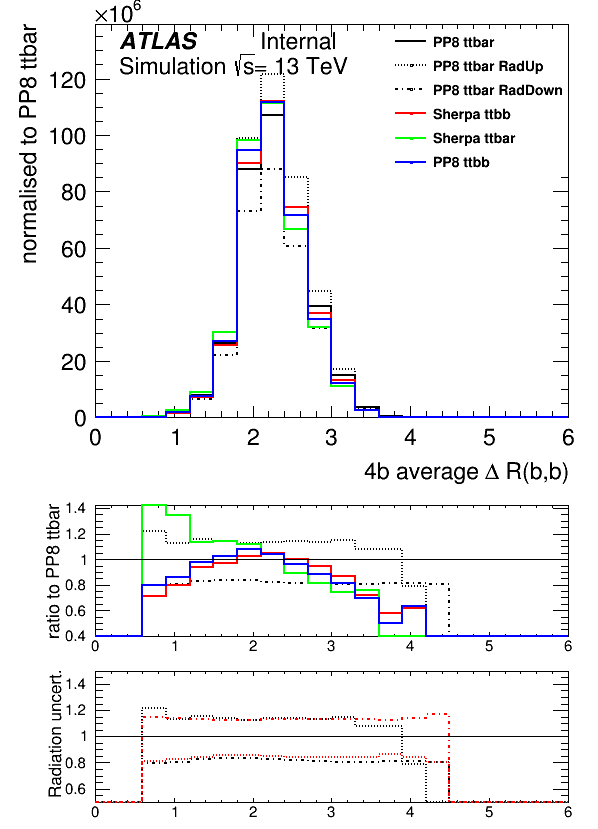
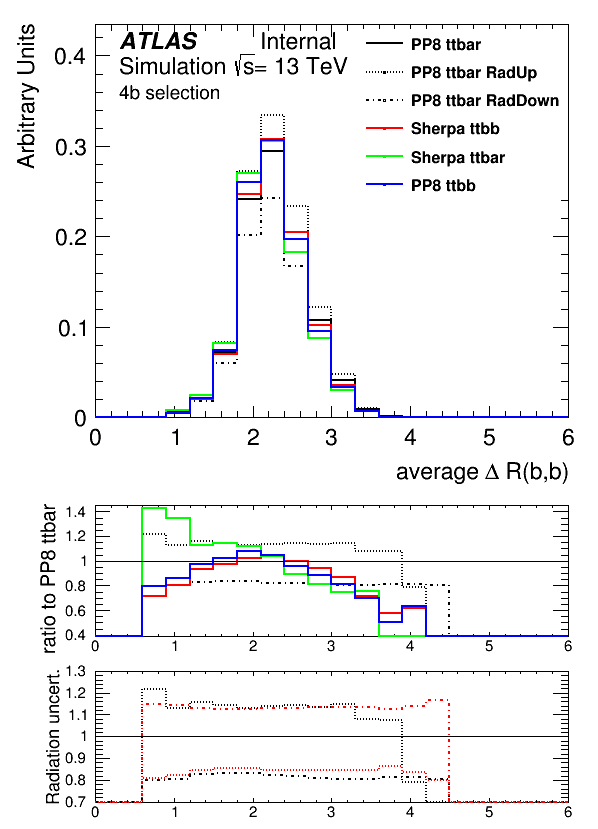
Postcirc comments pg

diff --git a/Tex/ttbb.tex b/Tex/ttbb.tex
@@ -3,19 +3,19 @@
 
 \subsection{Samples}
 Four Monte Carlo (MC) generators are compared in this study. % , where the inclusive $\mathrm{t\bar{t}}$ PP8 sample was previously used as the nominal background estimate in the ttH analysis. 
-The nominal sample for the inclusive $\mathrm{t\bar{t}}$ process is generated with the \textsc{POWHEG-BOX v2} NLO event generator~\cite{Nason:2004rx,Frixione:2007vw,Alioli:2010xd,Campbell:2014kua} with NNPDF3.0 NLO PDF set, matched to Pythia8 and is referred to as PP8 $\mathrm{t\bar{t}}$, where the additional bb-pair is described by the parton shower. The $h_{damp}$ parameter was set to 1.5 times the top quark mass~\cite{ATL-PHYS-PUB-2016-020}, which is assumed to be 172.5 GeV. The parton shower and the hadronisation were modelled by Pythia 8.210 with the A14 set of tuned parameters. The renormalisation and factorisation scales were set to the transverse mass of the top quark, defined as $m_{T,t} = \sqrt{m^2_t + p^2_{T,t}}$, where $p_{T,t}$ is the transverse momentum of the top quark in the $t\overline{t}$ center-of-mass reference frame.
-The intrinsic uncertainty of the nominal PP8 $\mathrm{t\bar{t}}$ sample is expressed by the simultaneous variation of the renormalisation and factorisation scales together with the PDF tune parameters. The RadiationUp variation has the renormalisation and factorisation scales decreased by a factor of two, the Var3c upward variation of the A14 parameter set and the $h_{damp}$ parameter doubled. The RadiationDown variation has the renormalisation and factorisation scales increased by a factor of two, the Var3c downward variation and the nominal value of $h_{damp}$.
+One sample is generated with the \textsc{POWHEG-BOX v2} NLO event generator~\cite{Nason:2004rx,Frixione:2007vw,Alioli:2010xd,Campbell:2014kua} with NNPDF3.0 NLO PDF set, matched to Pythia8 and is referred to as PP8 $\mathrm{t\bar{t}}$, where the additional bb-pair is described by the parton shower. The $h_{damp}$ parameter was set to 1.5 times the top quark mass~\cite{ATL-PHYS-PUB-2016-020}, which is assumed to be 172.5~GeV. The parton shower and the hadronisation were modelled by Pythia 8.210~\cite{PhysRevD.78.014026} with the A14 set of tuned parameters~\cite{ATL-PHYS-PUB-2014-021}. The renormalisation and factorisation scales were set to the transverse mass of the top quark, defined as $m_{T,t} = \sqrt{m^2_t + p^2_{T,t}}$, where $p_{T,t}$ is the transverse momentum of the top quark in the $t\overline{t}$ center-of-mass reference frame. This sample was previously used as the nominal background estimate in the ttH(bb) analysis.
+The intrinsic uncertainty of the nominal PP8 $\mathrm{t\bar{t}}$ sample is expressed by the simultaneous variation of the renormalisation and factorisation scales ($\mu_R$ and $\mu_F$) together with the corresponding A14 Eigentune variation parameters. The RadiationUp variation has the renormalisation and factorisation scales decreased by a factor of two, the Var3c upward variation of the A14 parameter set and the $h_{damp}$ parameter doubled. The RadiationDown variation has the renormalisation and factorisation scales increased by a factor of two, the Var3c downward variation and the nominal value of $h_{damp}$.
 Additionally, the up and down radiation uncertainty is calculated following the CMS approach, under which the renormalisation scale, factorisation scale and PDF tune variations are each taken individually and their difference to the nominal is summed in quadrature, without changing $h_{damp}$.
 
-The PP8 tt+bb sample also uses the POWHEG generator where $t\bar{t}b\bar{b}$ matrix elements are calculated at NLO with massive b-quarks, using the four-flavour NLO NNPDF3.0 PDF set~\cite{Jezo:2018yaf}. The parton shower and hadronisation is modelled by Pythia 8.240.
+The PP8 $\mathrm{t\bar{t}b\bar{b}}$ sample also uses the POWHEG generator where $t\bar{t}+b\bar{b}$ matrix elements are calculated at NLO with massive b-quarks, using the four-flavour NLO NNPDF3.0 PDF set~\cite{Jezo:2018yaf}. The parton shower and hadronisation is modelled by Pythia 8.240. The scales are set to $\mu_R=\sqrt[4]{m_{T,t}\times m_{T,\bar{t}}\times m_{T,b}\times m_{T,\bar{b}} }$, $\mu_F=0.5\times(m_{T,t}+m_{T,\bar{t}}+m_{T,b}+ m_{T,\bar{b}}+m_{T,gluon})$ and $h_{damp}=H_T/2$.
 
-For the PP8 samples the bottom and charm quark decays are described by EVTGEN v1.2~\cite{LANGE2001152} and the top quark spin correlations follow ref.~\cite{Frixione:2007zp}.
+For the PP8 samples the bottom and charm quark decays are described by \textsc{EVTGEN} v1.2~\cite{LANGE2001152} and the top quark spin correlations follow ref.~\cite{Frixione:2007zp}.
 
-The \textsc{Sherpa} tt+bb sample describes NLO tt+bb including parton showering and hadronisation by \textsc{Sherpa}-\textsc{Openloops}~\cite{Cascioli:2013era,Gleisberg:2008ta,Cascioli:2011va}. The sample was produced with Sherpa version 2.1.1 and the CT10 four-flavour scheme PDF set~\cite{Guzzi:2011sv,Gao:2013xoa} The renormalisation scale is set to the CMMPS value as in ref.~\cite{Cascioli:2013era}, the factorisation and resummation scales equal $\mathrm{H_T/2}$.
+The \textsc{Sherpa} $\mathrm{t\bar{t}b\bar{b}}$ sample was generated using \textsc{Sherpa}-\textsc{Openloops}~\cite{Cascioli:2013era}. The $t\bar{t}b\bar{b}$ matrix elements were calculated with massive b-quarks at NLO, using the \textsc{COMIX}~\cite{gleisberg2008comix} and \textsc{OPENLOOPS}~\cite{Cascioli:2011va} matrix element generators, and merged with the Sherpa parton shower, tuned by the authors~\cite{schumann2007parton}. The four-flavour NNLO NNPDF3.0 PDF set was used. The scales are set to $\mu_R=\sqrt[4]{m_{T,t}\times m_{T,\bar{t}}\times m_{T,b}\times m_{T,\bar{b}}}$ and $\mu_F=\sqrt{\Sigma(E_T)}$ over all final state particles.
 
-Both the PP8 tt+bb and the \textsc{Sherpa} tt+bb samples describe the additional bb-pair with NLO precision in QCD, taking into account the b-quark mass.
+Both the PP8 $\mathrm{t\bar{t}b\bar{b}}$ and the \textsc{Sherpa} $\mathrm{t\bar{t}b\bar{b}}$ samples describe the additional bb-pair with NLO precision in QCD, taking into account the b-quark mass.
 
-The \textsc{Sherpa} $\mathrm{t\bar{t}}$ sample uses \textsc{Sherpa} version 2.2.1~\cite{Gleisberg:2008ta} with the ME+PS@NLO (multi-leg) setup using the MEPS@NLO prescription~\cite{Hoeche:2012yf}, interfaced with \textsc{Openloops}. It provides NLO accuracy for up to one additional parton and LO accuracy for up to four additional partons. The NNPDF3.0 NNLO PDF set is used with a five-flavour scheme and both renormalisation and factorisation scales are set to $\sqrt{0.5\times(m_{T,t}^2+m_{T,\bar{t}}^2)}$. 
+The \textsc{Sherpa} $\mathrm{t\bar{t}}$ sample uses \textsc{Sherpa} version 2.2.1~\cite{Gleisberg:2008ta} with the \textsc{MEPS}@NLO (multi-leg) setup using the \textsc{MEPS}@NLO prescription~\cite{Hoeche:2012yf}, interfaced with \textsc{Openloops}. It provides NLO accuracy for up to one additional parton and LO accuracy for up to four additional partons. The NNPDF3.0 NNLO PDF set is used with a five-flavour scheme and both renormalisation and factorisation scales are set to $\sqrt{0.5\times(m_{T,t}^2+m_{T,\bar{t}}^2)}$. 
 A summary of all samples used is given in Table~\ref{tab:ttbbsamples}. All samples are filtered to contain only semi-leptonic $\mathrm{t\bar{t}}$ decays.
 
 \begin{table}
@@ -33,7 +33,7 @@ Process & Generator & ME order & Parton shower & PDF & Tune  \\
 $\ttbar$  & \textsc{PowHeg v2} & \textsc{NLO} & \textsc{Pythia 8} &  5FS NNPDF3.0 NLO & \textsc{A14}  \\
 $\ttbar+b\bar{b}$  & \textsc{PowHeg v2} & \textsc{NLO} & \textsc{Pythia 8} &  4FS NNPDF3.0 NLO & \textsc{A14}  \\
 $\ttbar+b\bar{b}$  & \textsc{Sherpa 2.2.1} & \textsc{NLO} & \textsc{Sherpa} &  4FS NNPDF3.0 NNLO & \textsc{Sherpa} default  \\
-$\ttbar$  & \textsc{Sherpa 2.2.1} & tt+0,1p\@NLO+3p@LO & \textsc{Sherpa} &  5FS NNPDF3.0 NNLO & \textsc{Sherpa} default  \\
+$\ttbar$  & \textsc{Sherpa 2.2.1} & tt+0,1\@NLO+2,3,4@LO & \textsc{Sherpa} &  5FS NNPDF3.0 NNLO & \textsc{Sherpa} default  \\
 \hline\hline
 \end{tabular}
 }
@@ -41,12 +41,12 @@ $\ttbar$  & \textsc{Sherpa 2.2.1} & tt+0,1p\@NLO+3p@LO & \textsc{Sherpa} &  5FS 
 \end{table}
 
 \subsection{Fiducial Volume}
-Object and event selection is defined at particle-level that closely matches the detector-level described in reference~\cite{HIGG-2017-03} and was defined together with CMS as a common phase space. Jets are reconstructed from stable particles with a mean lifetime of $\tau > 3\times 10^{-11}$~s, using the anti-$k_t$ algorithm with a radius parameter of $R=0.4$, and are required to have transverse momentum $\mathrm{p_{T}}$>25 GeV and pseudorapidity $|\eta|< 2.5$. Jets that are matched to b-hadrons with $\mathrm{p_{T}>5 GeV}$ by ghost matching~\cite{Cacciari:2008gn} and are referred to as b-jets. Electrons and muons, referred to as leptons, are required to satisfy $\mathrm{p_{T}>27 GeV}$and $|\eta|< 2.5$. 
-Leptons are removed if they are separated from a jet by less than $\Delta R>0.4$ ($\Delta R = \sqrt{(\Delta eta )^2 + (\Delta \phi)^2}$).
+Object and event selection is defined at particle-level that closely matches the detector-level described in reference~\cite{HIGG-2017-03} and was defined together with CMS as a common phase space. Jets are reconstructed from stable particles with a mean lifetime of $\tau > 3\times 10^{-11}$~s, using the anti-$k_t$ algorithm with a radius parameter of $R=0.4$, and are required to have transverse momentum $p_{T}>25~\GeV$ and pseudorapidity $|\eta|< 2.5$. Jets that are matched to b-hadrons with $p_{T}>5~\GeV$ by ghost matching~\cite{Cacciari:2008gn} and are referred to as b-jets. Electrons and muons, referred to as leptons, are required to satisfy $p_{T}>27~\GeV$ and $|\eta|< 2.5$. 
+Leptons are removed if they are separated from a jet by less than $\Delta R>0.4$ ($\Delta R = \sqrt{(\Delta \eta )^2 + (\Delta \phi)^2}$).
 %Selected leptons are required to be separated from selected jets by $\Delta R>0.4$. 
 Events are selected with exactly one lepton and at least 4 jets, equivalent to the semi-leptonic $\mathrm{t\bar{t}}$ decay.
 %Two regions are considered, defined by 3 b-jets or $\geq$4 b-jets.
-Two analysis regions are considered. The first is defined by the presence of exactly three selected $b$-jets, while the second requires four or more such $b$-jets.
+Two analysis regions are considered. The first is defined by the presence of exactly three selected $b$-jets (3b selection), while the second requires four or more such $b$-jets (4b selection).
 
 
 %, , , , , , $N_{jets}$, 
@@ -60,14 +60,14 @@ The list of the validation variables for the comparison of the generators for $t
 \begin{tabular}{l|l}
 \hline\hline
 Variable & Description  \\ \hline
-$\Delta R (b,b)_{ave}$&    average over $\Delta R(b, b)$ build from all 2 b-jet combinations in the event           \\ 
-$\Delta R (b,b)_{min}$ &    $\Delta R$ of the two b-jets in the event which are closest in $\Delta R $          \\ 
+average $\Delta R (b,b)$&    average over $\Delta R(b, b)$ build from all 2 b-jet combinations in the event           \\ 
+min $\Delta R (b,b)$ &    $\Delta R$ of the two b-jets in the event which are closest in $\Delta R $          \\ 
 $M (b,b)_{maxP_T}$ &      mass of the 2 b-jet system build of the b-jets with maximal $p_T$         \\ 
 $M (b,b)_{min\Delta R(b,b)}$ &         mass of the 2 b-jet system build of the b-jets closest in $\Delta R $     \\ 
-$HT$ of $b$-jets&           scalar sum of all b-jet $p_T$ in the event    \\ 
-$HT$ of light-jets&        scalar sum of $p_T$ of all light jets in the event       \\ 
+$H_T$  $b$-jets&           scalar sum of all b-jet $p_T$ in the event    \\ 
+$H_T$ light-jets&        scalar sum of $p_T$ of all light jets in the event       \\ 
 $N_{jets}$   &     number of all jets in the event (including b-jets)          \\ 
-$\eta_{jets}$ &          $\eta$ of leading light jet in the event     \\ 
+jet eta &          $\eta$ of any jet in the event     \\ 
     \hline\hline    
 \end{tabular}
 }
@@ -78,20 +78,19 @@ $\eta_{jets}$ &          $\eta$ of leading light jet in the event     \\
 
 
 \subsection{Results}
-The nominal PP8 $\mathrm{t\bar{t}}$ sample is compared to its radiation uncertainty variations and alternative generators, 
-%scaled to a common arbitrary integrated luminosity.
-scaled to a common arbitrary total yield before any acceptance effects.
-The first ratio plot shows the ratio of the different MC samples to PP8 $\mathrm{t\bar{t}}$, where the colour scheme is given in the legend.
+The nominal PP8 $\mathrm{t\bar{t}}$ sample and the alternative generators are normalised to an integral of 1, after all cuts and in each histogram individually for a shape-only comparison.
+The radiation uncertainty variations on PP8 $\mathrm{t\bar{t}}$ are added and include normalisation differences with respect to the central value. For the RadiationUp uncertainty, an alternative sample with different $h_{damp}$ was used, here the number of events (not the sum of weights) was scaled to the central value.
+The central value of the PP8 $\mathrm{t\bar{t}}$ and the other three generators are normalised to 1. The first ratio plot shows the ratio of the different MC samples to PP8 $\mathrm{t\bar{t}}$ from the upper plot, where the colour scheme is given in the legend.
 The list of the validation variables for this comparison is presented in this note summarised in Table~\ref{tab:ttbb_varlist}.
 
 Discrepancies between PP8 $\mathrm{t\bar{t}}$ and the alternative generators can be seen in the $\Delta R$ quantities, as in Figures~\ref{ttbb:avedR} and \ref{ttbb:mindR}, where at least in the 4b selection the difference to the alternative generators is larger than the uncertainty band given by the radiation variations.  
 %In the b-jet pair invariant mass variables $\mathrm{M_{bb}^{max P_T}}$ and $\mathrm{M_{bb}^{min \Delta R}}$ shown in Figures~\ref{ttbb:MbbmaxPT} and~\ref{ttbb:MbbminDR}, the largest difference is seen between the Sherpa $\mathrm{t\bar{t}}$ and all other samples.
-Two types of $b$-jet pairs are defined: one pair is build from the two $b$-jets with the highest $p_T$, called $maxPT$, and one pair from the two $b$-jets which are closest in $\Delta R$, called $min \Delta R$ . The invariant mass of the b-jet pairs are shown in Figures~\ref{ttbb:MbbmaxPT} and~\ref{ttbb:MbbminDR}, the largest difference is seen between the Sherpa $\mathrm{t\bar{t}}$ and all other samples.
+Two types of $b$-jet pairs are defined: one pair is build from the two $b$-jets with the highest $p_T$ sum, called $maxP_T$, and one pair from the two $b$-jets which are closest in $\Delta R$, called $min \Delta R$ . The invariant mass of the b-jet pairs are shown in Figures~\ref{ttbb:MbbmaxPT} and~\ref{ttbb:MbbminDR}, the largest difference is seen between the Sherpa $\mathrm{t\bar{t}}$ and all other samples.
 %
 Differences are also observed in the $\mathrm{H_T}$ distributions, particularly in the 3b selection. In $\mathrm{H_T}$ of all b-jets, as in Figures~\ref{ttbb:HTbjets}, one observes a difference between PP8 $\mathrm{t\bar{t}}$ and the samples with b-jets in the matrix element, while in $\mathrm{H_T}$ of all light jets, shown in Figure~\ref{ttbb:HTljets}, a difference between the 4 and 5 flavour schemes can be seen. The jet multiplicity, as in Figure~\ref{ttbb:Njets}, has poor agreement among the generators for large jet multiplicities.
 Lastly, differences among the samples are shown for the $\mathrm{\eta_{jet}}$ distribution, in Figure~\ref{ttbb:jeteta}.
 
-The second ratio plot shows the relative uncertainty of the radiation variations on PP8 $\mathrm{t\bar{t}}$, shown as the ratio of the uncertainty to the nominal for two cases described above, where the scale and PDF tune parameters are either varied simultaneously (black) or individually and then summed (red). $h_{damp}$ variations are only considered for the first case.
+The second ratio plot shows the relative uncertainty of the radiation variations on PP8 $\mathrm{t\bar{t}}$, shown as the ratio of the varied sample to the nominal for two cases described above, where the scale and A14 Eigentune parameters are either varied simultaneously (black) or individually and then summed following the CMS approach (red). $h_{damp}$ variations are only considered for the first case.
 
 
 
@@ -99,54 +98,54 @@ The second ratio plot shows the relative uncertainty of the radiation variations
 \centering
 \includegraphics[width=0.38\textwidth]{Plots/ttbb/hisgenEvt_Dr_GenBJetsAverage_4j3t__div}
 \includegraphics[width=0.38\textwidth]{Plots/ttbb/hisgenEvt_Dr_GenBJetsAverage_4j4t__div}
-  \caption{Distribution of the average opening angle between two b-jets, for the 3b selection (left) and the 4b-jet selection (right). The first ratio plot shows the ratio of the different MC samples to PP8 $\mathrm{t\bar{t}}$, together with its radiation uncertainties. The second ratio plot shows the relative uncertainty of the radiation variations divided by the nominal, for PP8 $\mathrm{t\bar{t}}$ following the above description of simultaneous variations (black) and as the sum of individual variations following the CMS approach (red).  \label{ttbb:avedR}}
+  \caption{Distribution of the average opening angle between two b-jets, for the 3b selection (left) and the 4b-jet selection (right). The central value of the PP8 $\mathrm{t\bar{t}}$ and the other three generators are normalised to 1. The first ratio shows the different curves divided by PP8 $\mathrm{t\bar{t}}$. The second ratio plot shows the relative uncertainty of the radiation variations divided by the nominal PP8 $\mathrm{t\bar{t}}$ following the above description of simultaneous variations (black) and as the sum of individual variations following the CMS approach (red).  \label{ttbb:avedR}}
 \end{figure}
 
 \begin{figure}[!htb]
 \centering
 \includegraphics[width=0.38\textwidth]{Plots/ttbb/hisgenEvt_Dr_MinDeltaRGenBJets_4j3t__div}
 \includegraphics[width=0.38\textwidth]{Plots/ttbb/hisgenEvt_Dr_MinDeltaRGenBJets_4j4t__div}
-  \caption{Distribution of the smallest opening angle between two b-jets, for the 3b selection (left) and the 4b-jet selection (right). The first ratio plot shows the ratio of the different MC samples to PP8 $\mathrm{t\bar{t}}$, together with its radiation uncertainties. The second ratio plot shows the relative uncertainty of the radiation variations divided by the nominal, for PP8 $\mathrm{t\bar{t}}$ following the above description of simultaneous variations (black) and as the sum of individual variations following the CMS approach (red). \label{ttbb:mindR}}
+  \caption{Distribution of the smallest opening angle between two b-jets, for the 3b selection (left) and the 4b-jet selection (right). The central value of the PP8 $\mathrm{t\bar{t}}$ and the other three generators are normalised to 1. The first ratio shows the different curves divided by PP8 $\mathrm{t\bar{t}}$. The second ratio plot shows the relative uncertainty of the radiation variations divided by the nominal PP8 $\mathrm{t\bar{t}}$ following the above description of simultaneous variations (black) and as the sum of individual variations following the CMS approach (red). \label{ttbb:mindR}}
 \end{figure}
 
 \begin{figure}[!htb]
 \centering
 \includegraphics[width=0.38\textwidth]{Plots/ttbb/hisgenEvt_M_HardestGenBJets_4j3t__div}
 \includegraphics[width=0.38\textwidth]{Plots/ttbb/hisgenEvt_M_HardestGenBJets_4j4t__div}
-  \caption{Distribution of the invariant mass in GeV of the two b-jets with the highest $\mathrm{P_T}$ sum, for the 3b selection (left) and the 4b-jet selection (right). The first ratio plot shows the ratio of the different MC samples to PP8 $\mathrm{t\bar{t}}$, together with its radiation uncertainties. The second ratio plot shows the relative uncertainty of the radiation variations divided by the nominal, for PP8 $\mathrm{t\bar{t}}$ following the above description of simultaneous variations (black) and as the sum of individual variations following the CMS approach (red). \label{ttbb:MbbmaxPT}}
+  \caption{Distribution of the invariant mass in GeV of the two b-jets with the highest $\mathrm{P_T}$ sum, for the 3b selection (left) and the 4b-jet selection (right). The central value of the PP8 $\mathrm{t\bar{t}}$ and the other three generators are normalised to 1. The first ratio shows the different curves divided by PP8 $\mathrm{t\bar{t}}$. The second ratio plot shows the relative uncertainty of the radiation variations divided by the nominal PP8 $\mathrm{t\bar{t}}$ following the above description of simultaneous variations (black) and as the sum of individual variations following the CMS approach (red). \label{ttbb:MbbmaxPT}}
 \end{figure}
 
 \begin{figure}[!htb]
 \centering
 \includegraphics[width=0.38\textwidth]{Plots/ttbb/hisgenEvt_M_MinDeltaRGenBJets_4j3t__div}
 \includegraphics[width=0.38\textwidth]{Plots/ttbb/hisgenEvt_M_MinDeltaRGenBJets_4j4t__div}
-  \caption{Distribution of the invariant mass in GeV of the two b-jets with the smallest opening angle, for the 3b selection (left) and the 4b-jet selection (right). The first ratio plot shows the ratio of the different MC samples to PP8 $\mathrm{t\bar{t}}$, together with its radiation uncertainties. The second ratio plot shows the relative uncertainty of the radiation variations divided by the nominal, for PP8 $\mathrm{t\bar{t}}$ following the above description of simultaneous variations (black) and as the sum of individual variations following the CMS approach (red). \label{ttbb:MbbminDR}}
+  \caption{Distribution of the invariant mass in GeV of the two b-jets with the smallest opening angle, for the 3b selection (left) and the 4b-jet selection (right). The central value of the PP8 $\mathrm{t\bar{t}}$ and the other three generators are normalised to 1. The first ratio shows the different curves divided by PP8 $\mathrm{t\bar{t}}$. The second ratio plot shows the relative uncertainty of the radiation variations divided by the nominal PP8 $\mathrm{t\bar{t}}$ following the above description of simultaneous variations (black) and as the sum of individual variations following the CMS approach (red). \label{ttbb:MbbminDR}}
 \end{figure}
 
 \begin{figure}[!htb]
 \centering
 \includegraphics[width=0.38\textwidth]{Plots/ttbb/hisgenHTbjets_4j3t__div}
 \includegraphics[width=0.38\textwidth]{Plots/ttbb/hisgenHTbjets_4j4t__div}
-  \caption{Sum of b-jet transverse momenta in GeV, for the 3b selection (left) and the 4b-jet selection (right). The first ratio plot shows the ratio of the different MC samples to PP8 $\mathrm{t\bar{t}}$, together with its radiation uncertainties. The second ratio plot shows the relative uncertainty of the radiation variations divided by the nominal, for PP8 $\mathrm{t\bar{t}}$ following the above description of simultaneous variations (black) and as the sum of individual variations following the CMS approach (red). \label{ttbb:HTbjets}}
+  \caption{Sum of b-jet transverse momenta in GeV, for the 3b selection (left) and the 4b-jet selection (right). The central value of the PP8 $\mathrm{t\bar{t}}$ and the other three generators are normalised to 1. The first ratio shows the different curves divided by PP8 $\mathrm{t\bar{t}}$. The second ratio plot shows the relative uncertainty of the radiation variations divided by the nominal PP8 $\mathrm{t\bar{t}}$ following the above description of simultaneous variations (black) and as the sum of individual variations following the CMS approach (red). \label{ttbb:HTbjets}}
 \end{figure}
 
 \begin{figure}[!htb]
 \centering
 \includegraphics[width=0.38\textwidth]{Plots/ttbb/hisgenHTljets_4j3t__div}
 \includegraphics[width=0.38\textwidth]{Plots/ttbb/hisgenHTljets_4j4t__div}
-  \caption{Sum of non-b-jet transverse momenta in GeV, for the 3b selection (left) and the 4b-jet selection (right). The first ratio plot shows the ratio of the different MC samples to PP8 $\mathrm{t\bar{t}}$, together with its radiation uncertainties. The second ratio plot shows the relative uncertainty of the radiation variations divided by the nominal, for PP8 $\mathrm{t\bar{t}}$ following the above description of simultaneous variations (black) and as the sum of individual variations following the CMS approach (red). \label{ttbb:HTljets}}
+  \caption{Sum of non-b-jet transverse momenta in GeV, for the 3b selection (left) and the 4b-jet selection (right). The central value of the PP8 $\mathrm{t\bar{t}}$ and the other three generators are normalised to 1. The first ratio shows the different curves divided by PP8 $\mathrm{t\bar{t}}$. The second ratio plot shows the relative uncertainty of the radiation variations divided by the nominal PP8 $\mathrm{t\bar{t}}$ following the above description of simultaneous variations (black) and as the sum of individual variations following the CMS approach (red). \label{ttbb:HTljets}}
 \end{figure}
 
 \begin{figure}[!htb]
 \centering
 \includegraphics[width=0.38\textwidth]{Plots/ttbb/hisgenNjets_4j3t__div}
 \includegraphics[width=0.38\textwidth]{Plots/ttbb/hisgenNjets_4j4t__div}
-  \caption{Jet multiplicity, for the 3b selection (left) and the 4b-jet selection (right). The first ratio plot shows the ratio of the different MC samples to PP8 $\mathrm{t\bar{t}}$, together with its radiation uncertainties. The second ratio plot shows the relative uncertainty of the radiation variations divided by the nominal, for PP8 $\mathrm{t\bar{t}}$ following the above description of simultaneous variations (black) and as the sum of individual variations following the CMS approach (red). \label{ttbb:Njets}}
+  \caption{Jet multiplicity, for the 3b selection (left) and the 4b-jet selection (right). The central value of the PP8 $\mathrm{t\bar{t}}$ and the other three generators are normalised to 1. The first ratio shows the different curves divided by PP8 $\mathrm{t\bar{t}}$. The second ratio plot shows the relative uncertainty of the radiation variations divided by the nominal PP8 $\mathrm{t\bar{t}}$ following the above description of simultaneous variations (black) and as the sum of individual variations following the CMS approach (red). \label{ttbb:Njets}}
 \end{figure}
 
 \begin{figure}[!htb]
 \centering
 \includegraphics[width=0.38\textwidth]{Plots/ttbb/his3b_jeteta__div}
 \includegraphics[width=0.38\textwidth]{Plots/ttbb/his4b_jeteta__div}
-  \caption{Jet pseudorapidity, for the 3b selection (left) and the 4b-jet selection (right). The first ratio plot shows the ratio of the different MC samples to PP8 $\mathrm{t\bar{t}}$, together with its radiation uncertainties. The second ratio plot shows the relative uncertainty of the radiation variations divided by the nominal, for PP8 $\mathrm{t\bar{t}}$ following the above description of simultaneous variations (black) and as the sum of individual variations following the CMS approach (red). \label{ttbb:jeteta}}
+  \caption{Jet pseudorapidity, for the 3b selection (left) and the 4b-jet selection (right). The central value of the PP8 $\mathrm{t\bar{t}}$ and the other three generators are normalised to 1. The first ratio shows the different curves divided by PP8 $\mathrm{t\bar{t}}$. The second ratio plot shows the relative uncertainty of the radiation variations divided by the nominal PP8 $\mathrm{t\bar{t}}$ following the above description of simultaneous variations (black) and as the sum of individual variations following the CMS approach (red). \label{ttbb:jeteta}}
 \end{figure}

diff --git a/Tex/Introduction.tex b/Tex/Introduction.tex
@@ -1,7 +1,7 @@
 \section{Introduction}
 \label{sec:intro}
-The search for Higgs boson production in association with a top quark pair ($t\bar{t}H$) in the $\mathrm{H\rightarrow bb}$~\cite{HIGG-2017-03} and $\mathrm{H\rightarrow}$ multi-lepton~\cite{ATLAS-CONF-2019-045} analyses is limited by the modelling uncertainties of the main backgrounds, $t\bar{t}b\bar{b}$ and $t\bar{t}W$ respectively. %, where V denotes either a W or Z boson. 
-Examples of tree-level diagrams of said processes are shown in Figure~\ref{intro:sig}. A comparison of available Monte Carlo generators is thus performed to study modelling differences. Comparisons of observables are made at particle level, in a phase space similar to the reference measurements. Differences in the object and event selection were made to define a common selection with the CMS Collaboration, to later compare these distributions between the two experiments. The goal is to decide on a common strategy between ATLAS and CMS for background modelling uncertainties in the $t\bar{t}H(bb)$ and $t\bar{t}H$(multi-lepton) analyses.
+The search for Higgs boson production in association with a top quark pair ($t\bar{t}H$) in the $\mathrm{H\rightarrow b\bar{b}}$~\cite{HIGG-2017-03} and $\mathrm{H\rightarrow}$ multi-lepton~\cite{ATLAS-CONF-2019-045} analyses is limited by the modelling uncertainties of the main backgrounds, $t\bar{t}b\bar{b}$ and $t\bar{t}W$ respectively. %, where V denotes either a W or Z boson. 
+Examples of tree-level diagrams of said processes are shown in Figure~\ref{intro:sig}. A comparison of available Monte Carlo generators is thus performed to study modelling differences. Comparisons of observables are made at particle level, in a phase space similar to the reference measurements. Differences in the object and event selection were made to the recently published $\mathrm{H\rightarrow b\bar{b}}$ and $\mathrm{H\rightarrow}$ multi-lepton analyses, in order to define a common selection with the CMS Collaboration, to later compare these distributions between the two experiments. The goal is to decide on a common strategy between ATLAS and CMS for background modelling uncertainties in the $t\bar{t}H(b\bar{b})$ and $t\bar{t}H$(multi-lepton) analyses.
 
 \begin{figure}[!htb]
 \centering
